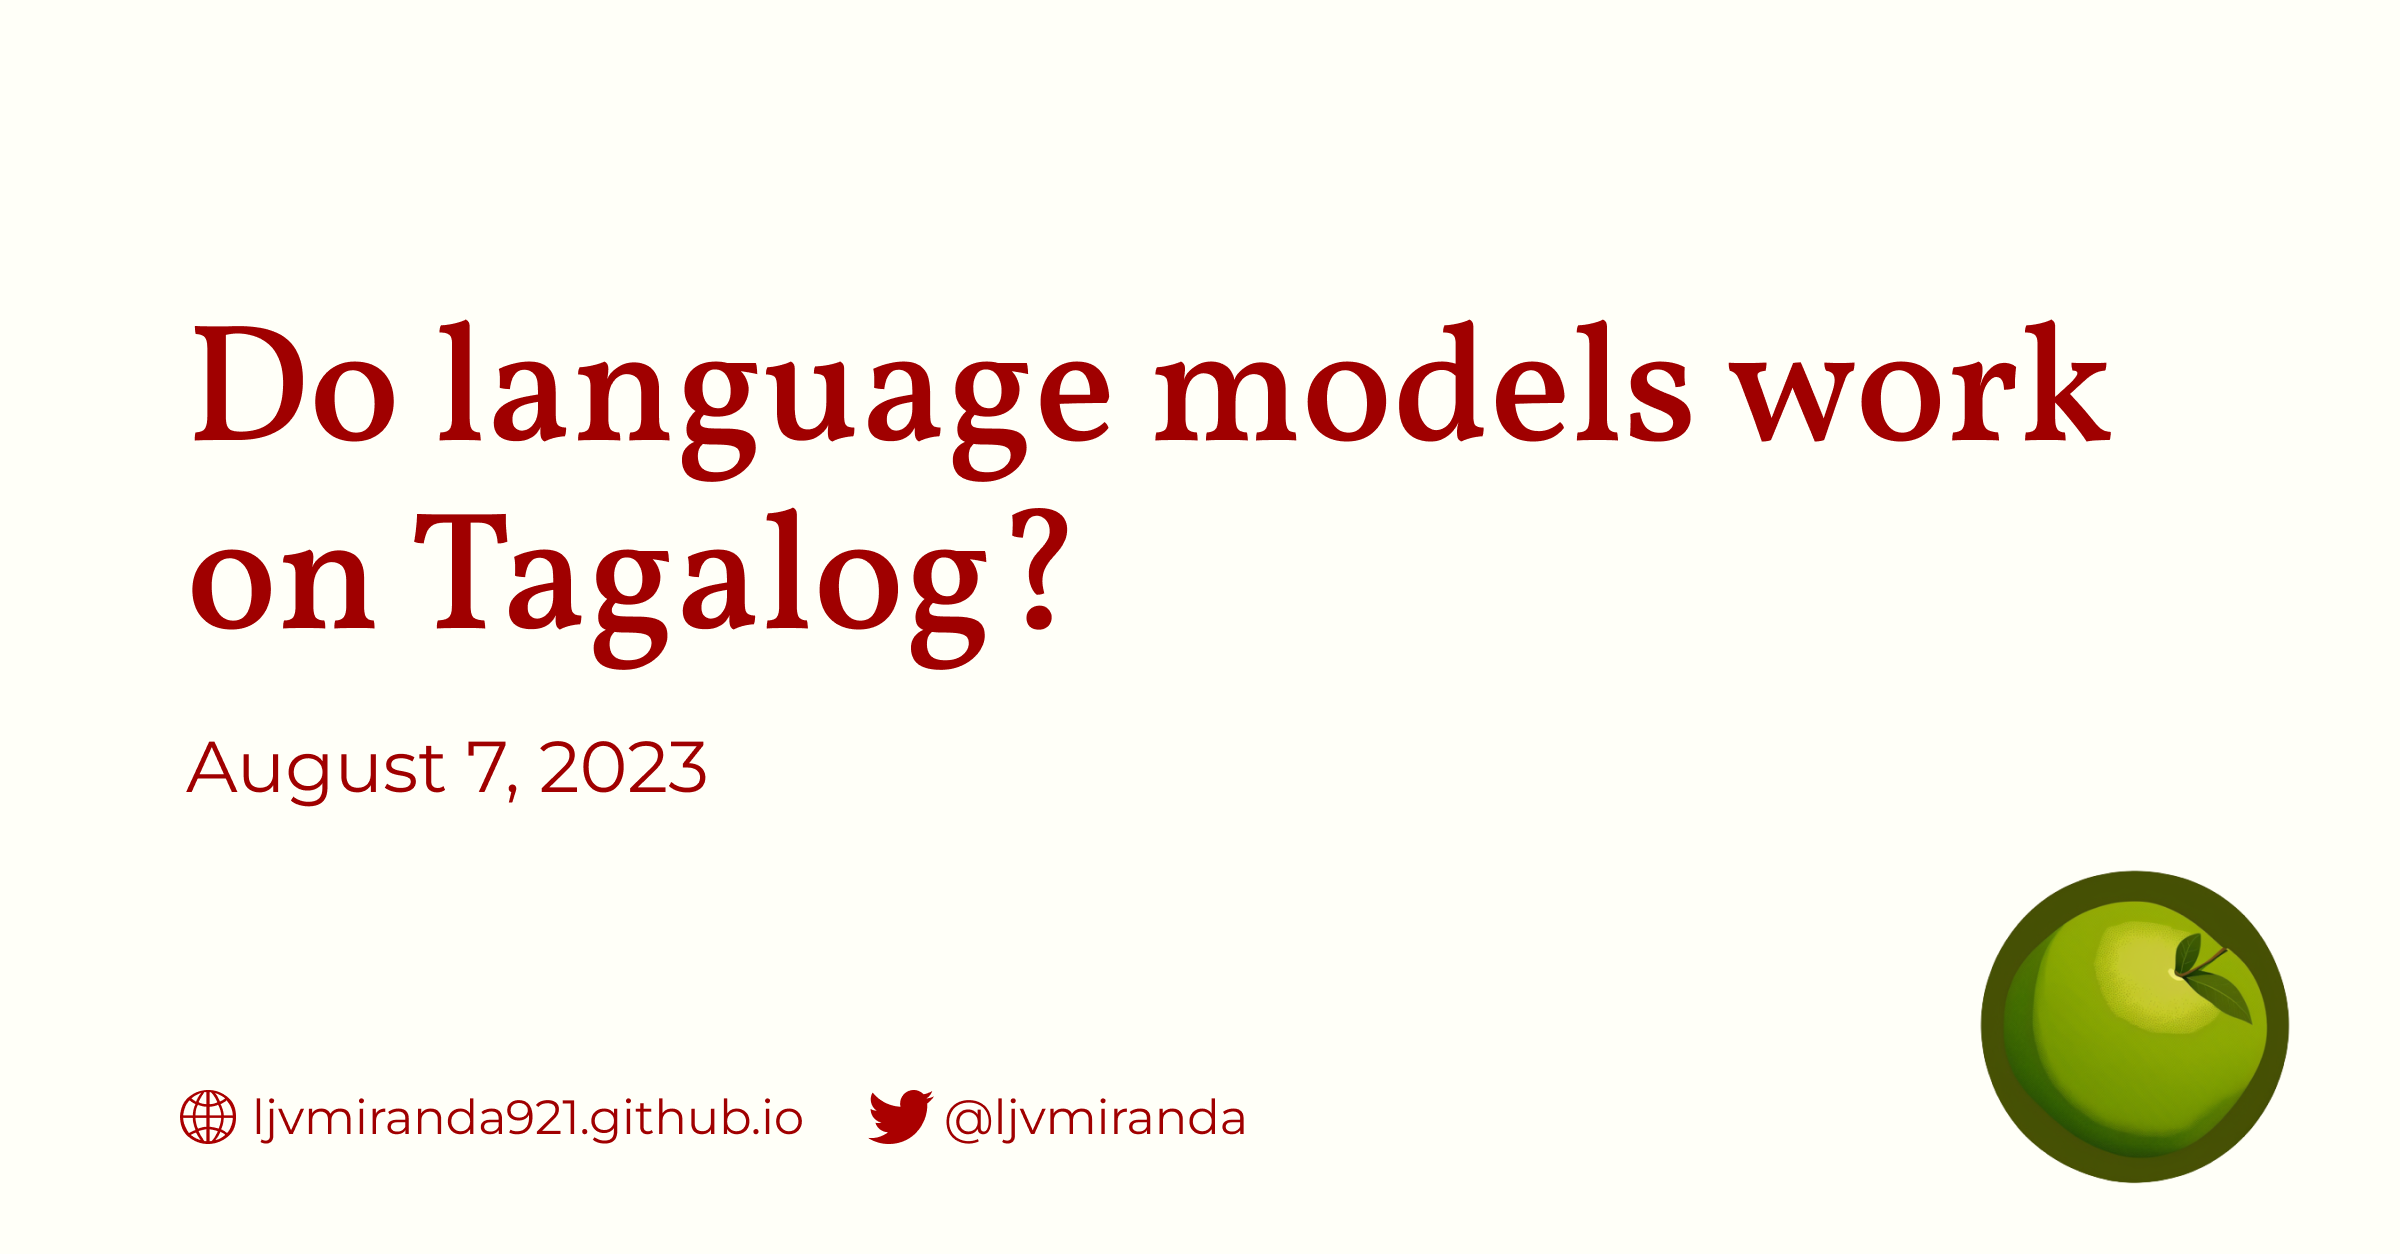
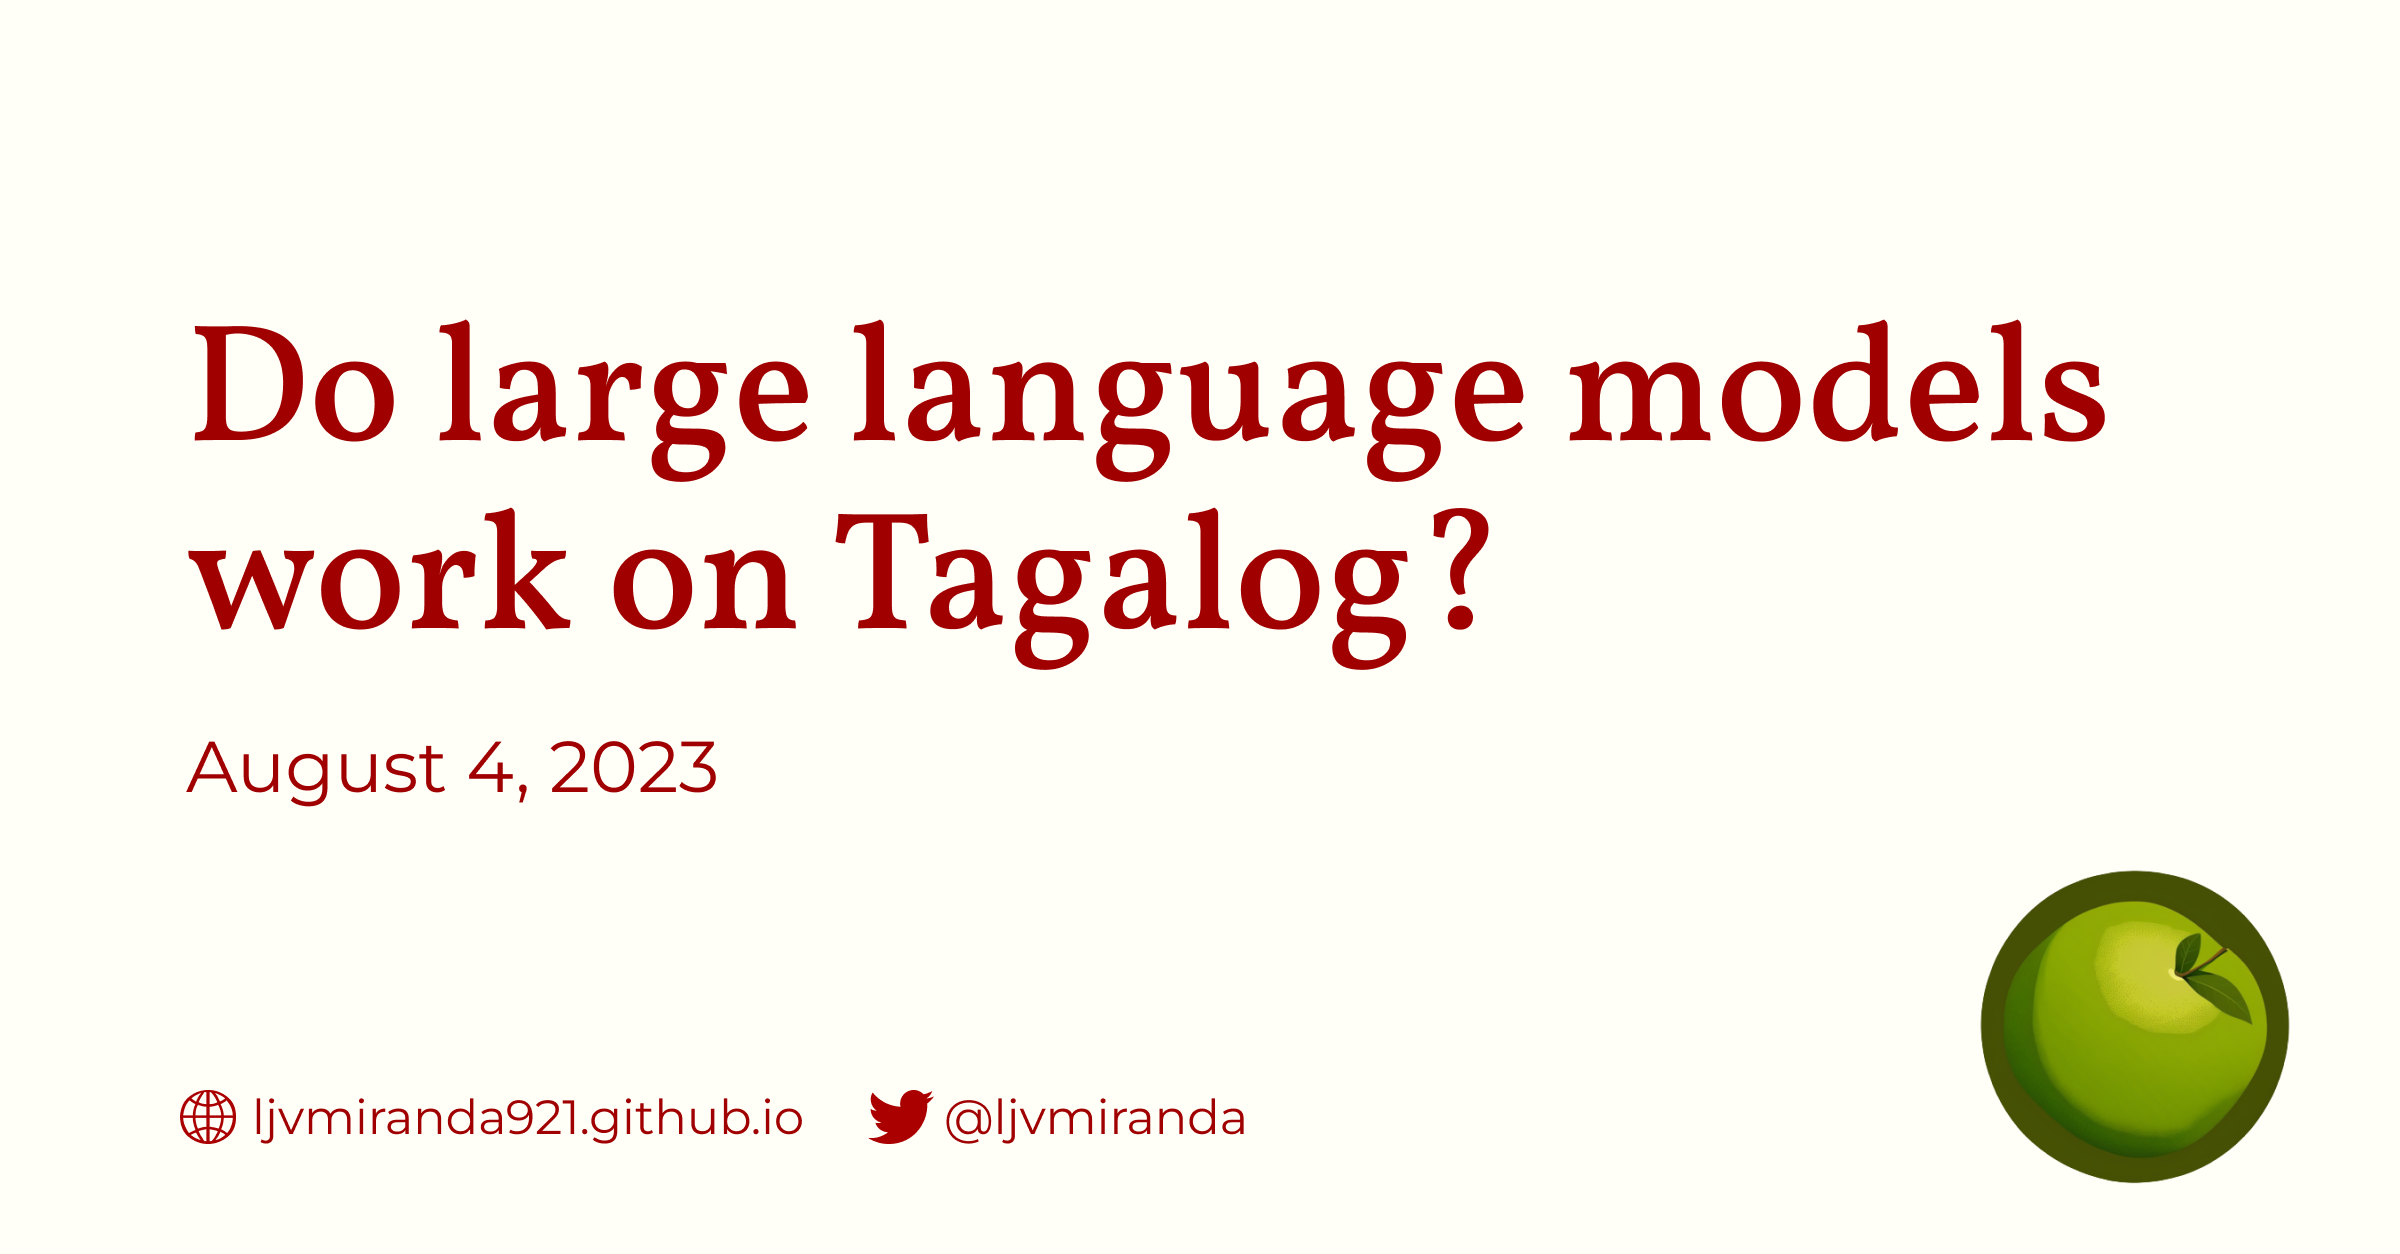
Change publication date to today

Changed region(s): [[0.0625, 0.2488, 0.875, 0.5287], [0.1875, 0.5909, 0.3125, 0.6531]]

diff --git a/notebook/_posts/2023-08-04-llm-tagalog.md b/notebook/_posts/2023-08-04-llm-tagalog.md
@@ -2,7 +2,7 @@
 layout: post
 type: post
 title: "Do large language models work on Tagalog?"
-date: 2023-08-07
+date: 2023-08-04
 category: notebook
 comments: true
 author: "LJ MIRANDA"
@@ -183,12 +183,12 @@ I also recommend [Vicki Boykis's reflection](https://vickiboykis.com/2023/02/26/
 ## Final thoughts: we're not there yet
 
 I hope that this blog post is a more sober view of LLM capabilities for low-resource languages.
-It would be great to live in a world where we don't need to gruelingly build corpora, but I don't think we're there yet.
-I still believe that LLMs have a use for structured prediction tasks, mainly, as annotators to build training corpora for supervised models.
+It would be great to live in a world where we don't need to build corpora, but I don't think we're there yet.
+I still believe that LLMs have a use for structured prediction tasks, such as in annotation or as a silver-standard knowledge-base.
 
-Personally, I'm interested in building parallel corpora for low-resource languages so that we have a comprehensive view of an LLM's multilingual performance.
-I'm also curious about various ways we can maximize the information obtained from LLMs and using the *secondary information* for other downstream tasks.
-Finally, there might also be a good argument for building an LLM geared towards long-tail languages, I do think that it is a worthwile endeavour.
+Personally, I'm interested in building parallel corpora so that we can have a comprehensive view of an LLM's multilingual performance.
+I'm also curious about various ways we can maximize the information obtained from LLMs and using that for downstream tasks.
+Finally, there might also be a good argument for building an LLM geared towards low-resource languages, I do think that it is a worthwile endeavour.
 
 ## References
 
